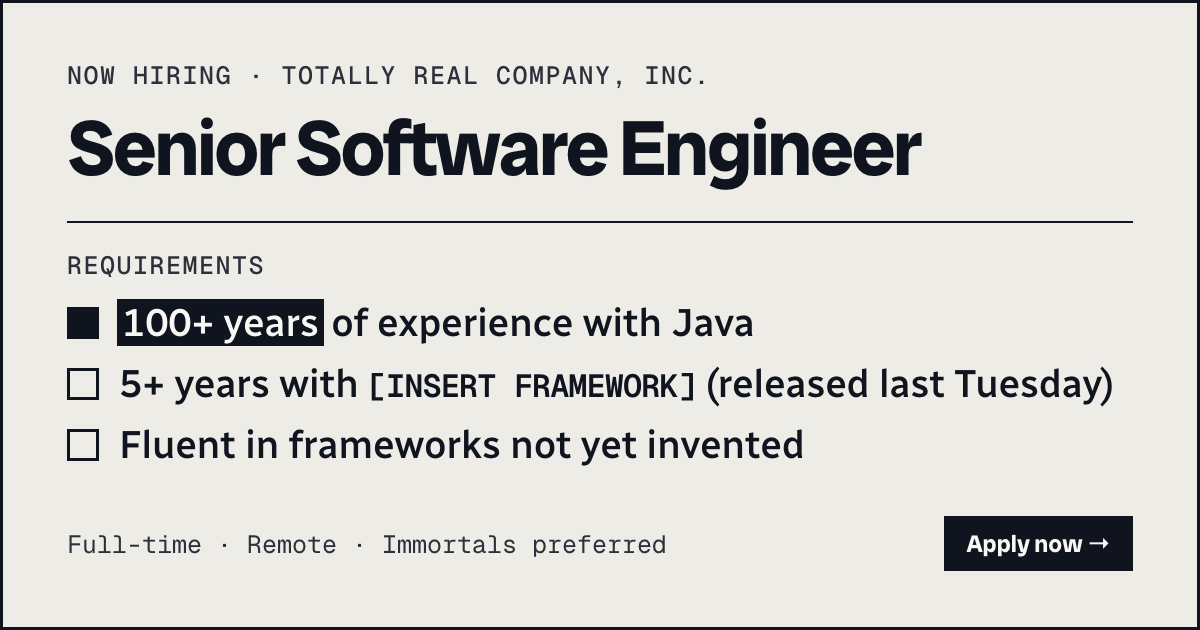
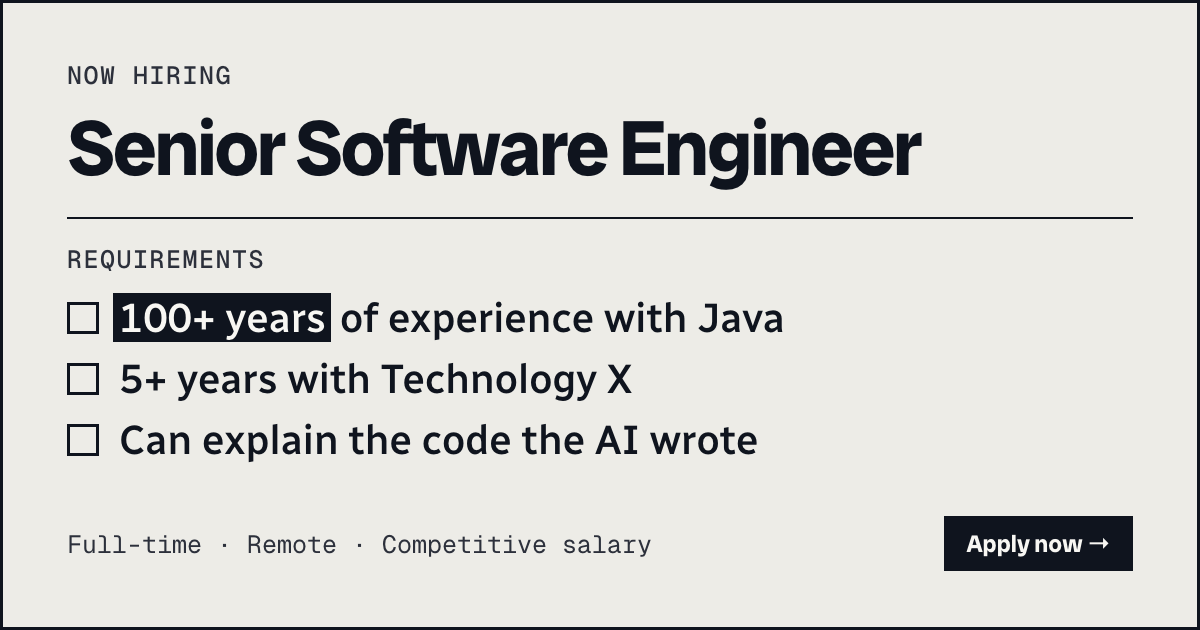
Update picture

diff --git a/src/content/posts/years-of-experience.md b/src/content/posts/years-of-experience.md
@@ -5,7 +5,7 @@ description: "AI made writing code cheap. What that does to the value of deep fr
 ogImage: /assets/img/years-of-exp/job-ad.png
 tags: [career, ai, hiring]
 ---
-![Fake job ad for a Senior Software Engineer at Totally Real Company, Inc. Requirements: 100+ years of experience with Java, 5+ years with [INSERT FRAMEWORK] (released last Tuesday), fluent in frameworks not yet invented](../../../public/assets/img/years-of-exp/job-ad.png)
+![Job ad for a Senior Software Engineer. Requirements: 100+ years of experience with Java, 5+ years with Technology X, can explain the code the AI wrote](../../../public/assets/img/years-of-exp/job-ad.png)
 
 <div class="tldr">
 
